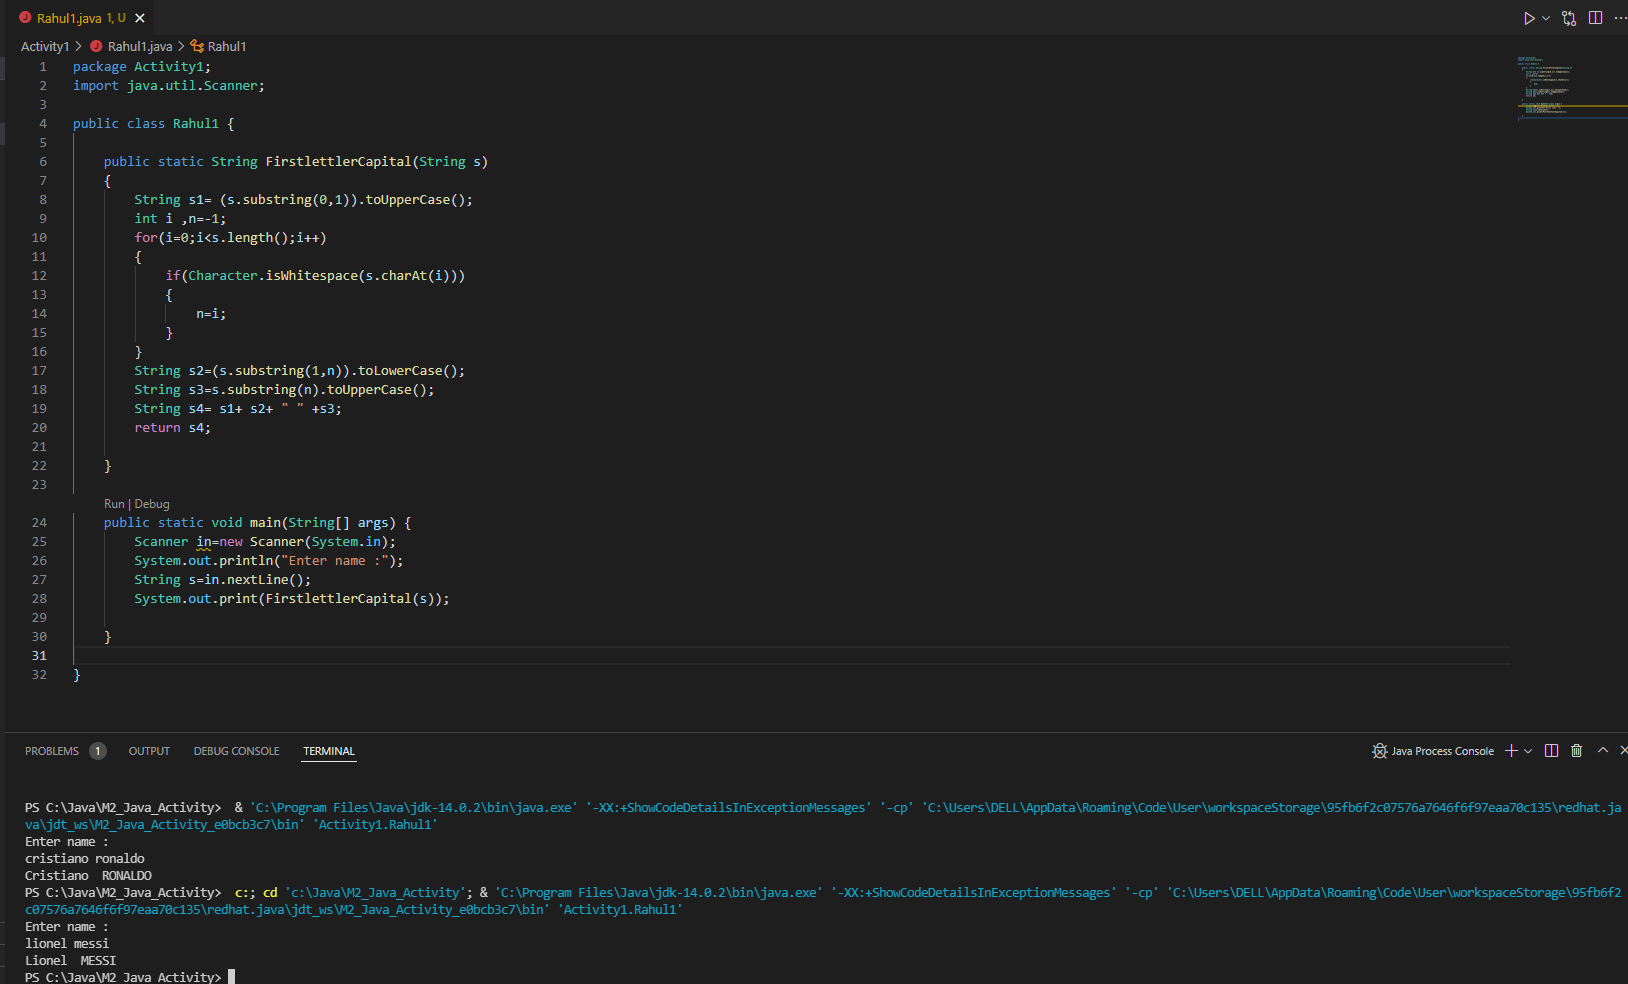
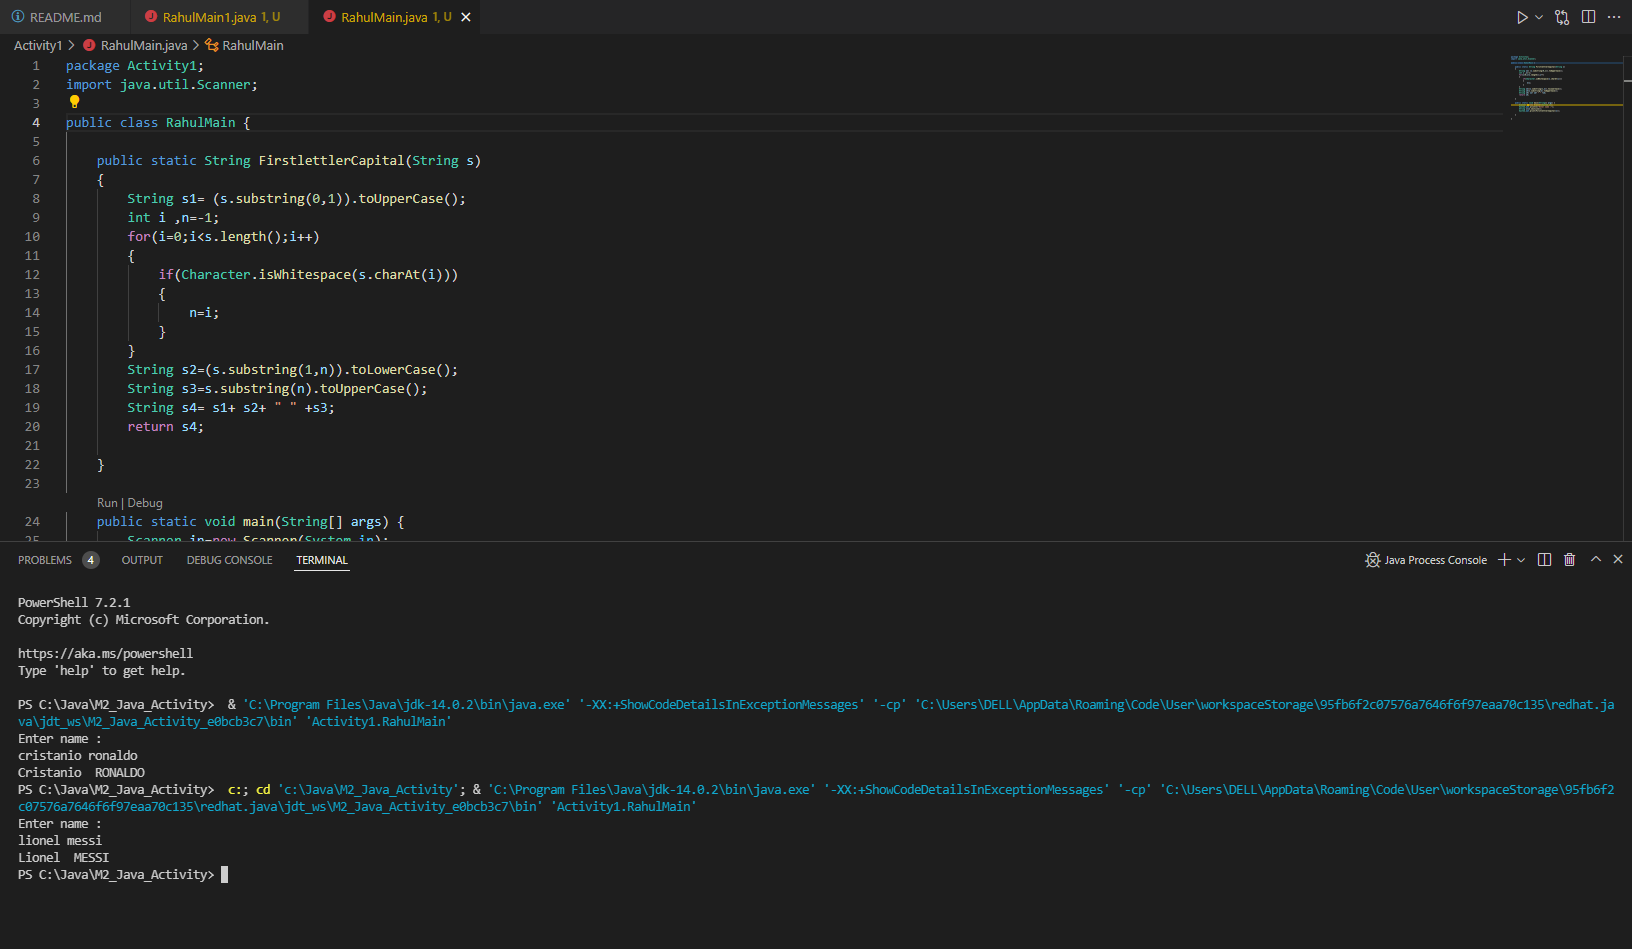
Enter

diff --git a/Activity3/RahulMain2.java b/Activity3/RahulMain2.java
@@ -2,7 +2,7 @@ package Activity3;
 
 import java.util.*;
 
-public class Rahul3 {
+public class RahulMain2 {
     Scanner sc = new Scanner(System.in);
     private String team;
     private String current_Innings;
@@ -58,7 +58,7 @@ public class Rahul3 {
 
     public static void main(String args[]) {
         Scanner sc = new Scanner(System.in);
-        Rahul3 cr = new Rahul3();
+        RahulMain2 cr = new RahulMain2();
         cr.Values();
         cr.displayValues();
     }

diff --git a/Activity2/RahulMain1.java b/Activity2/RahulMain1.java
@@ -1,7 +1,7 @@
 package Activity2;
 import java.util.Scanner;
 
-public class Rahul2 {
+public class RahulMain1 {
 	public static boolean samelastname(String s1, String s2)
 	{
 		int n1=-1,n2=-1,i;

diff --git a/Activity1/RahulMain.java b/Activity1/RahulMain.java
@@ -1,7 +1,7 @@
 package Activity1;
 import java.util.Scanner;
 
-public class Rahul1 {
+public class RahulMain {
 	
 	public static String FirstlettlerCapital(String s)
 	{
